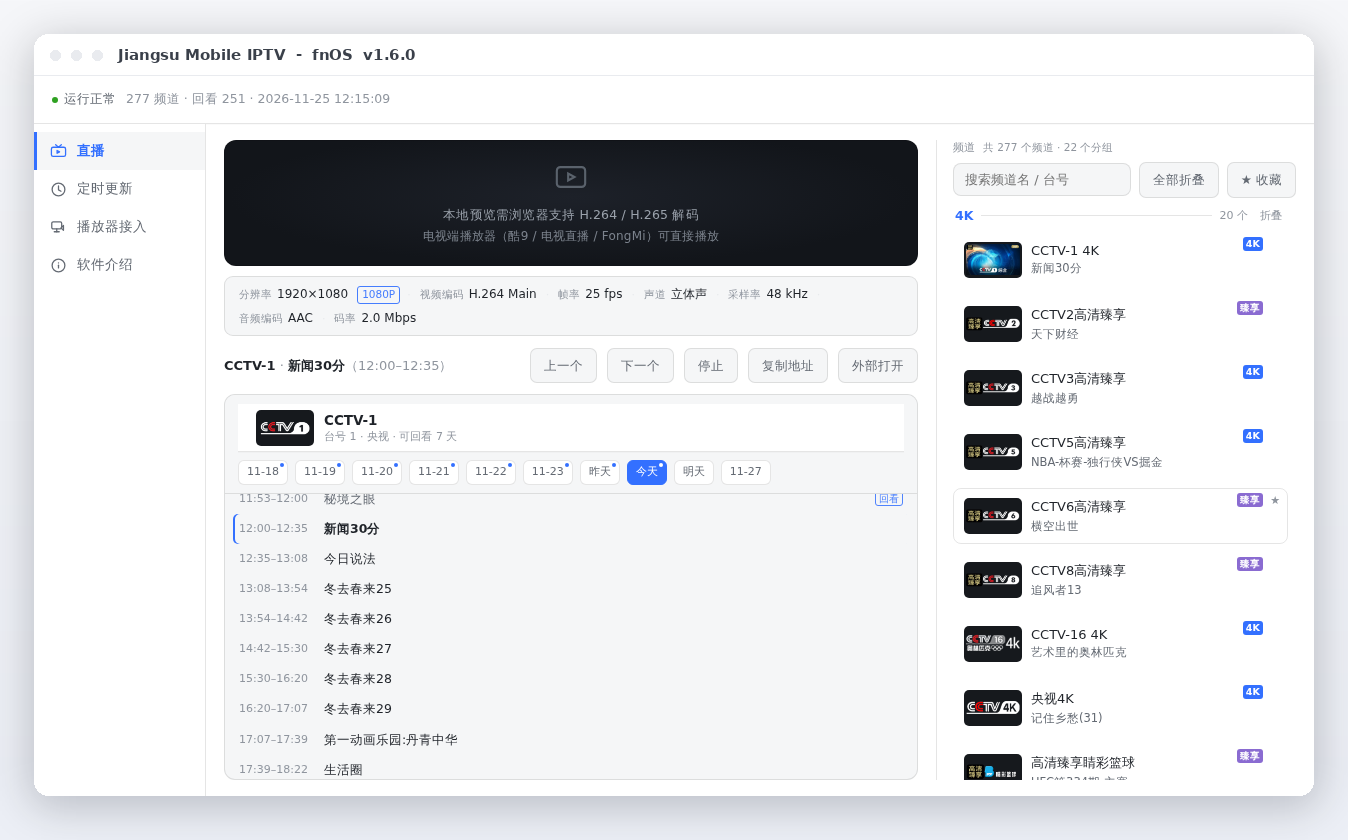
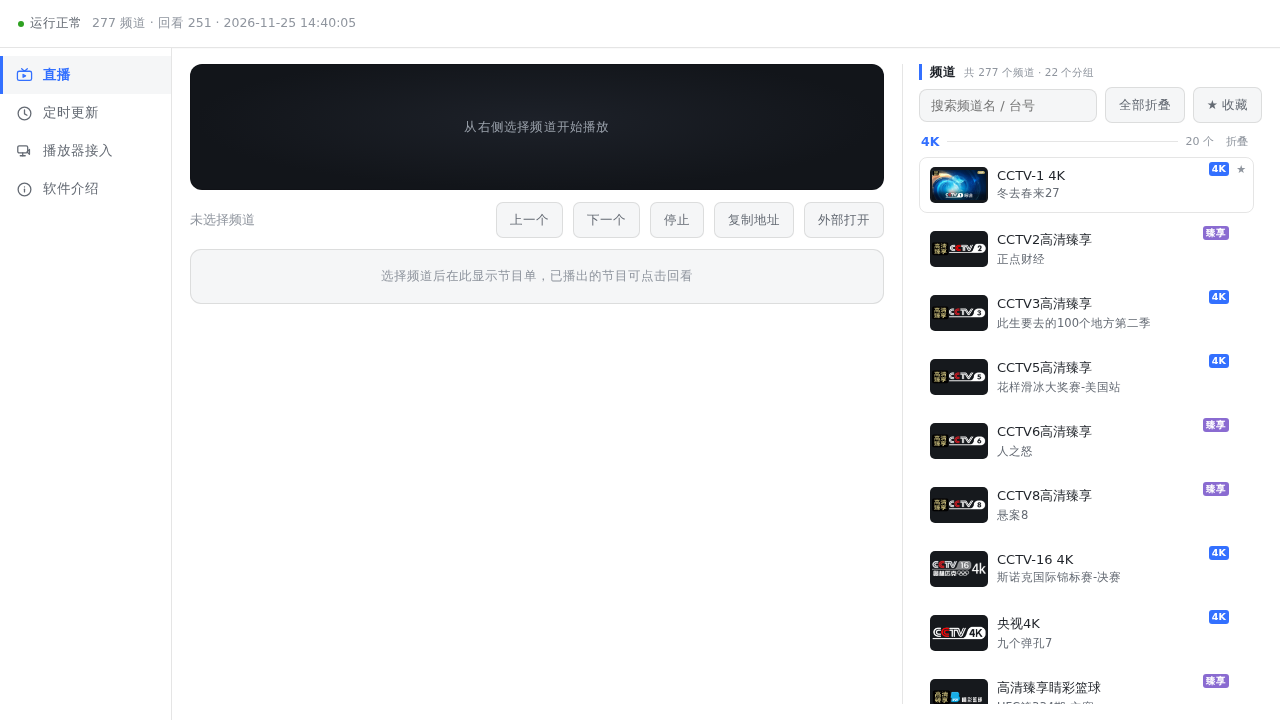
docs: 重写 README 首屏 + 更新界面截图 + 播放器接入页代码样式微调
README：
- 补 badges（Release/License/Platform/Python/零依赖）
- 首屏加一句话定位 + 快速开始（4 步装完）
- 新增「两套清单，按需选择」对照表，直接回答「智能分组 vs 原版清单该用哪个」
- 新增「界面预览」章节，展示播放器接入页（每条地址标注适用软件）
- 功能表精简去重，原版清单补充实测条数

截图：
- docs/screenshot.png 换成 1.7.0 实际界面（旧图为 v1.6.0，已过时）
- 新增 docs/screenshot-orig.png（原版清单页）

样式：
- .luse code 使用等宽字体 + 淡底，避免回看占位符与中文挤在一起

注：index.html 有改动，fpk 已同步重新打包，保证源码与 Release 附件一致。

diff --git a/fpk/app/www/index.html b/fpk/app/www/index.html
@@ -391,6 +391,10 @@
   .lcard .addr input{background:var(--bg3)}
   .luse{font-size:12.5px;color:var(--fg2);line-height:1.75;margin-top:7px}
   .luse b{color:var(--fg)}
+  /* 描述里的代码/占位符：等宽 + 淡底，避免和中文挤在一起 */
+  .luse code{font-family:ui-monospace,SFMono-Regular,Menlo,monospace;font-size:11.5px;
+             background:var(--bg3);border-radius:4px;padding:1px 5px;color:var(--fg);
+             white-space:nowrap}
   @media(max-width:600px){
     .luse{font-size:12px}
     .lhead{flex-wrap:wrap}
